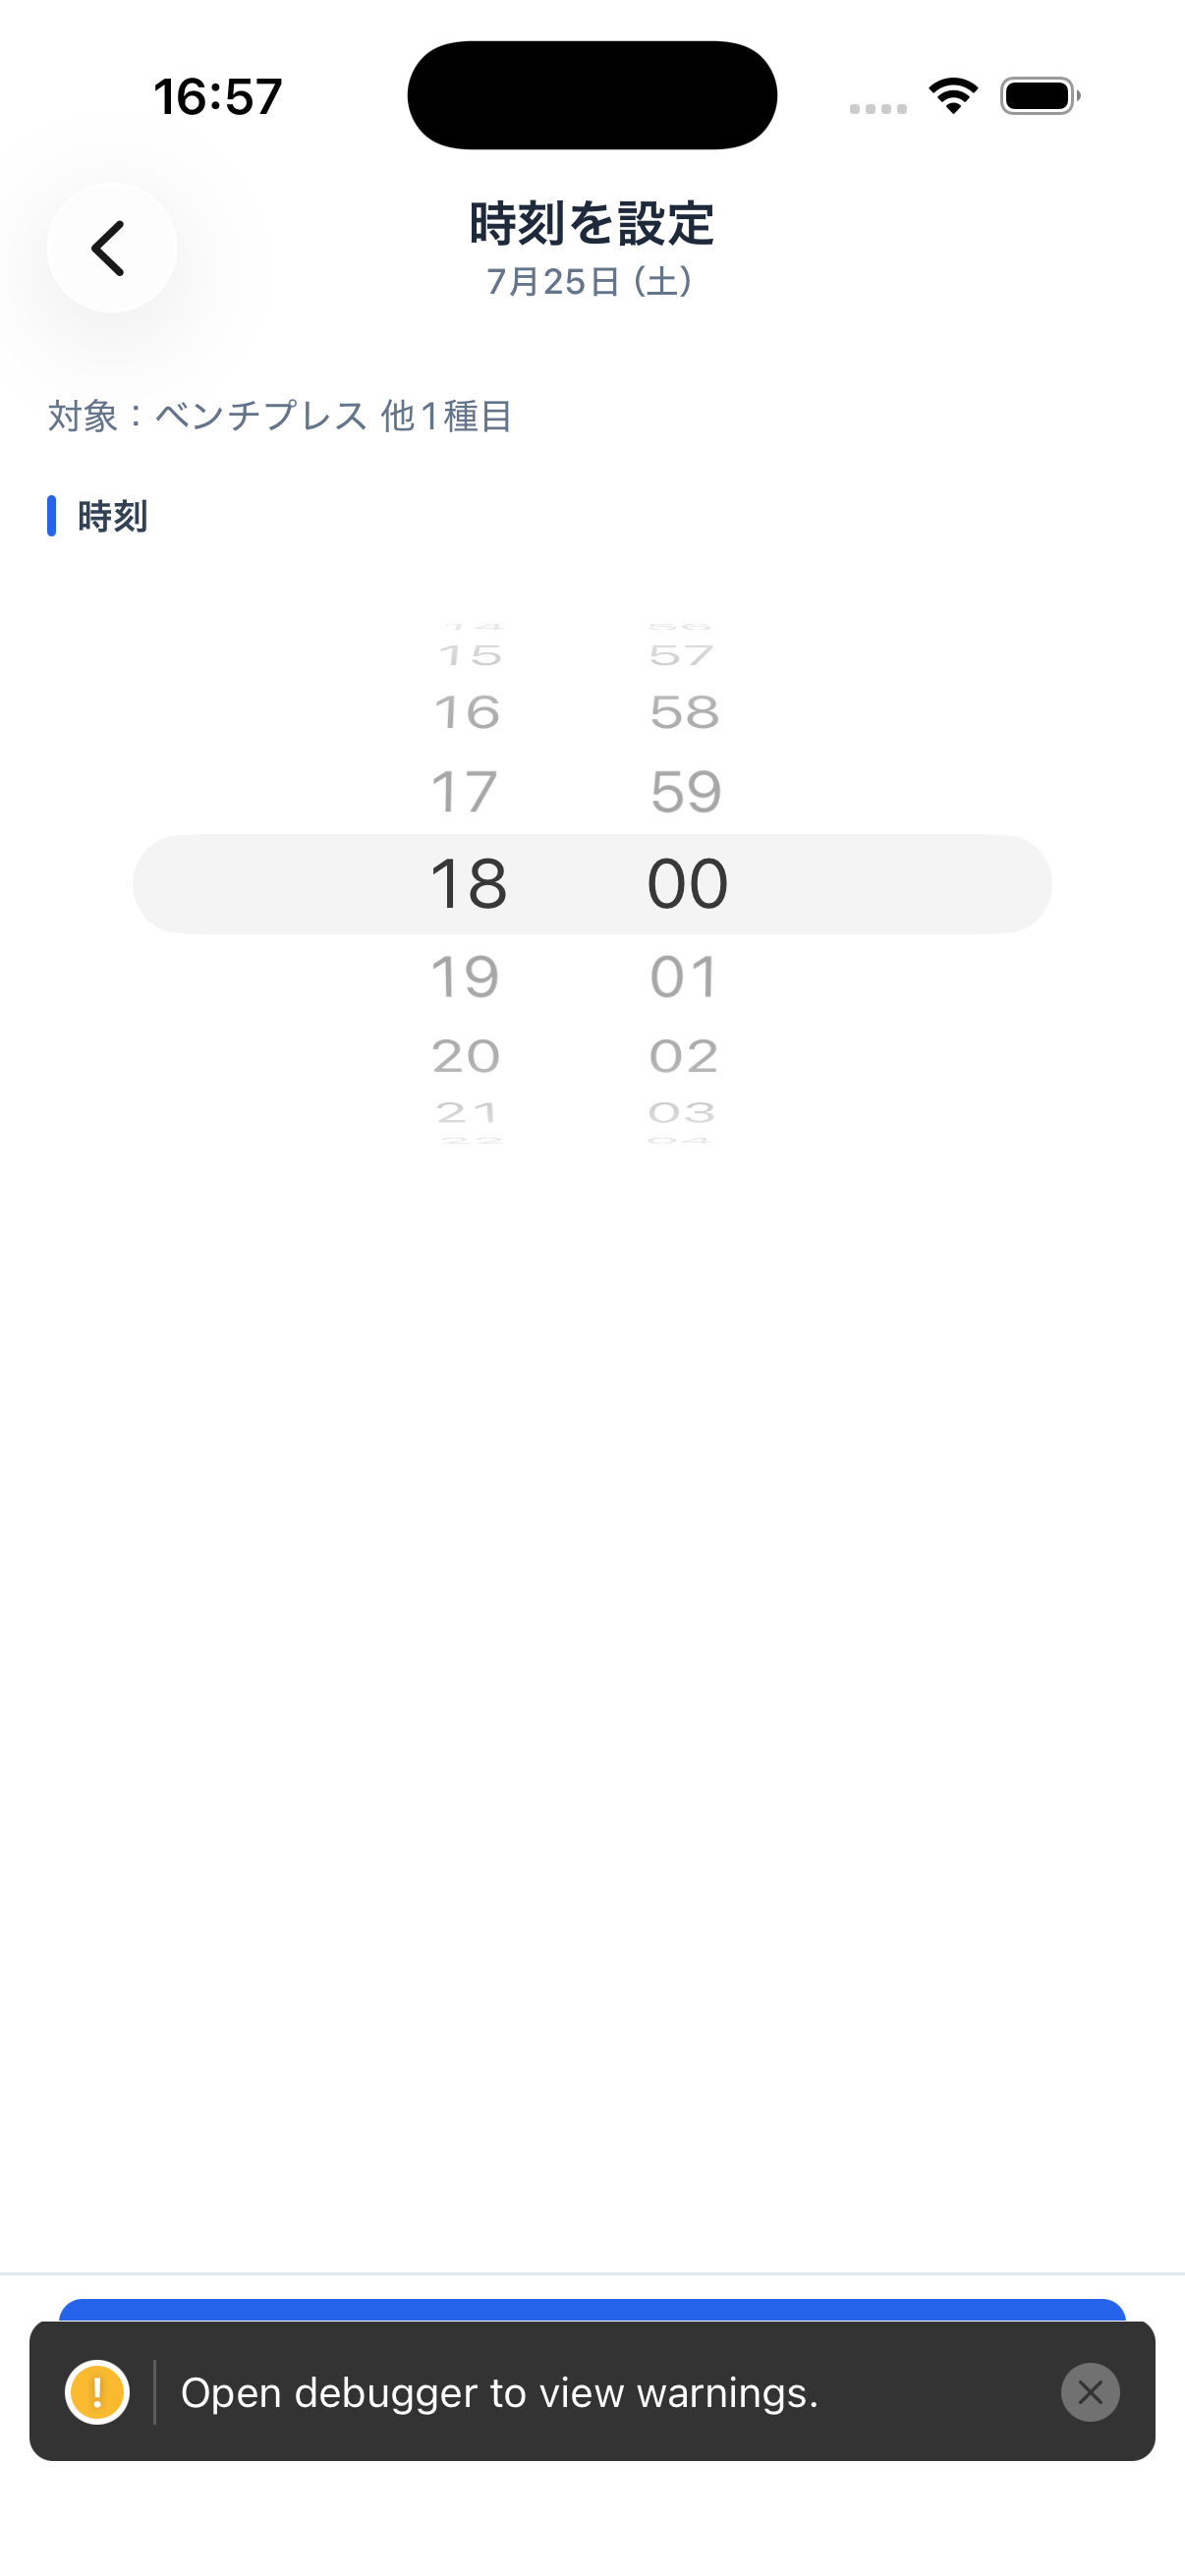
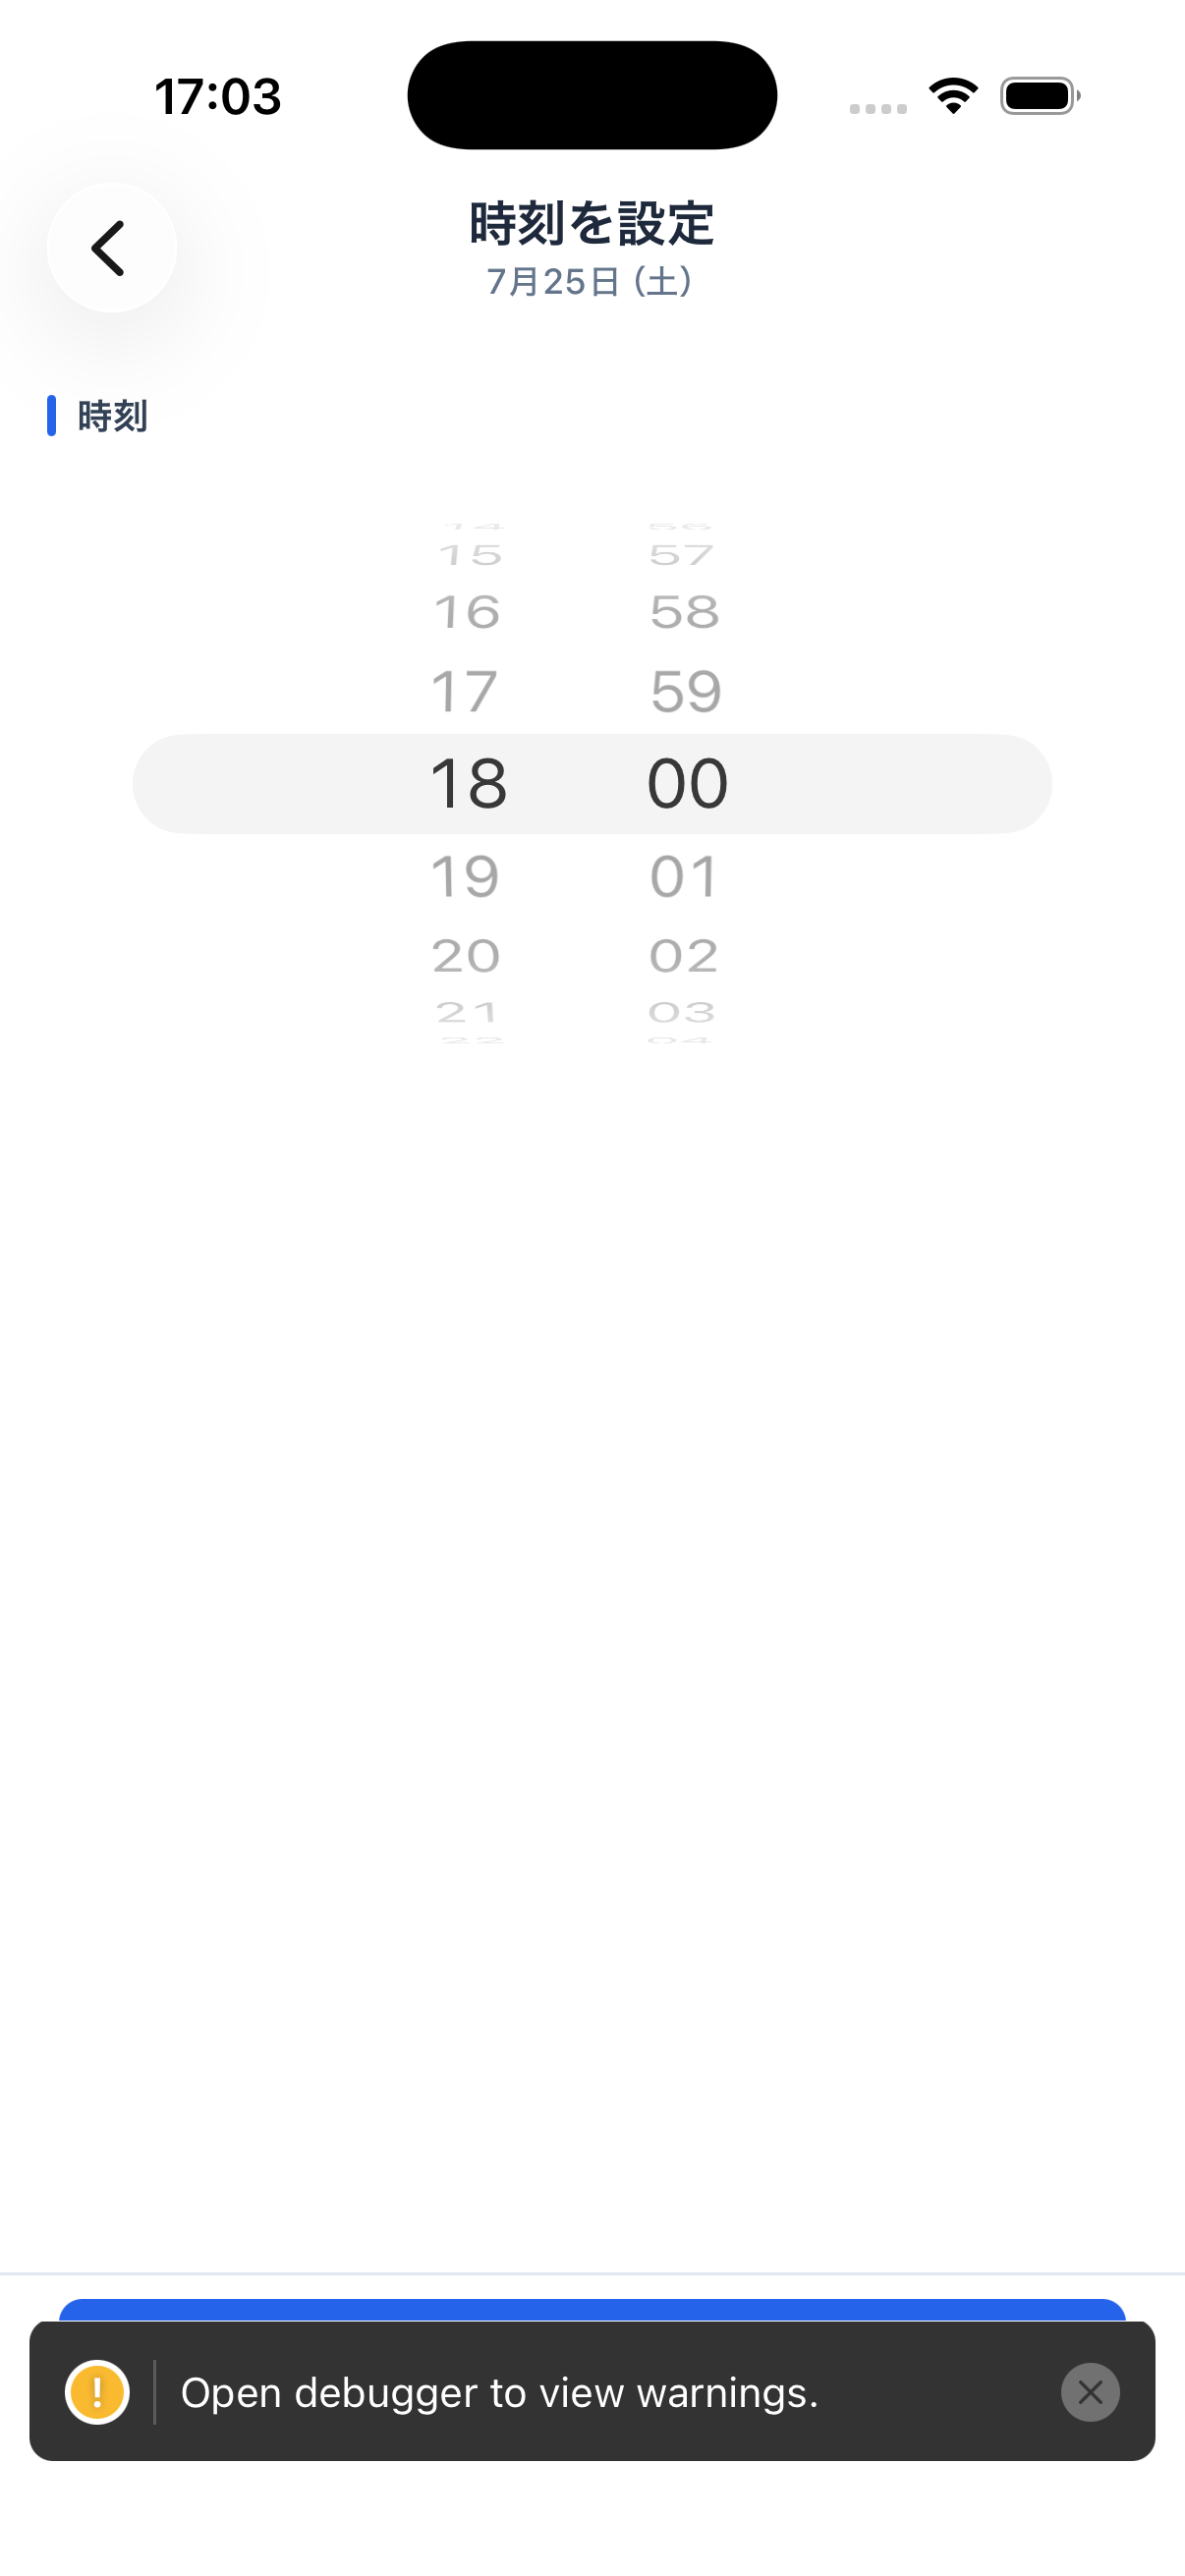
時刻設定画面から対象種目/ルーティン名の表示を削除する
前画面で選んだばかりで直後の時刻設定画面での表示は不要と判断（@ユーザー指摘）。

diff --git a/app/calendar/schedule-time-picker.tsx b/app/calendar/schedule-time-picker.tsx
@@ -161,8 +161,6 @@ export default function ScheduleTimePickerScreen() {
     );
   }
 
-  const targetName = isDirectMode ? directTitle : routineName;
-
   return (
     <SafeAreaView style={styles.safeArea} edges={['bottom']}>
       <Stack.Screen
@@ -170,9 +168,8 @@ export default function ScheduleTimePickerScreen() {
           // 画面1(schedule-routine-picker.tsx/schedule-exercise-picker.tsx)はタイトル=アクション名
           // （「ルーティンを選択」等）・サブタイトル=日付という情報階層のため、こちらも合わせて
           // タイトルをアクション名にし、日付はサブタイトル側にまとめる（デザイン指摘:
-          // 隣接画面で主従が逆転していると視線移動が不自然になるため）。予定名はサブタイトルから
-          // 外し本文側の対象表示に移した（下記targetLabel参照、@designer指摘: 直接追加モードだと
-          // 次画面までヘッダー上に種目名が一切出なくなるため）
+          // 隣接画面で主従が逆転していると視線移動が不自然になるため）。予定名（ルーティン名/種目名）は
+          // 前画面で選んだばかりで直後の画面表示は不要と判断し出さない（@ユーザー指摘）
           headerTitle: () => (
             <HeaderTitle title="時刻を設定" subtitle={formatSessionDateGroup(parseDateKey(dateKey).getTime())} />
           ),
@@ -182,11 +179,6 @@ export default function ScheduleTimePickerScreen() {
         {permState && permState !== 'granted' && (
           <PermissionBanner state={permState} onRequest={handleRequestPermission} />
         )}
-        {targetName ? (
-          <Text style={styles.targetLabel} numberOfLines={2}>
-            対象：{targetName}
-          </Text>
-        ) : null}
         <FormField label="時刻">
           <View style={styles.timePickerWrapper}>
             {Platform.OS === 'android' && (
@@ -221,7 +213,6 @@ export default function ScheduleTimePickerScreen() {
 const styles = StyleSheet.create({
   safeArea: { flex: 1, backgroundColor: Colors.background },
   content: { flex: 1, padding: 16, gap: 16 },
-  targetLabel: { ...Typography.footnote, color: Colors.textMuted },
   // 時刻ピッカーが左寄りに見えていた問題の修正（@ユーザー指摘）。iOSのspinnerは意図幅で
   // 描画され親の全幅に伸びないため、このwrapperのalignItems:centerで水平中央に寄せる
   timePickerWrapper: { alignItems: 'center' },